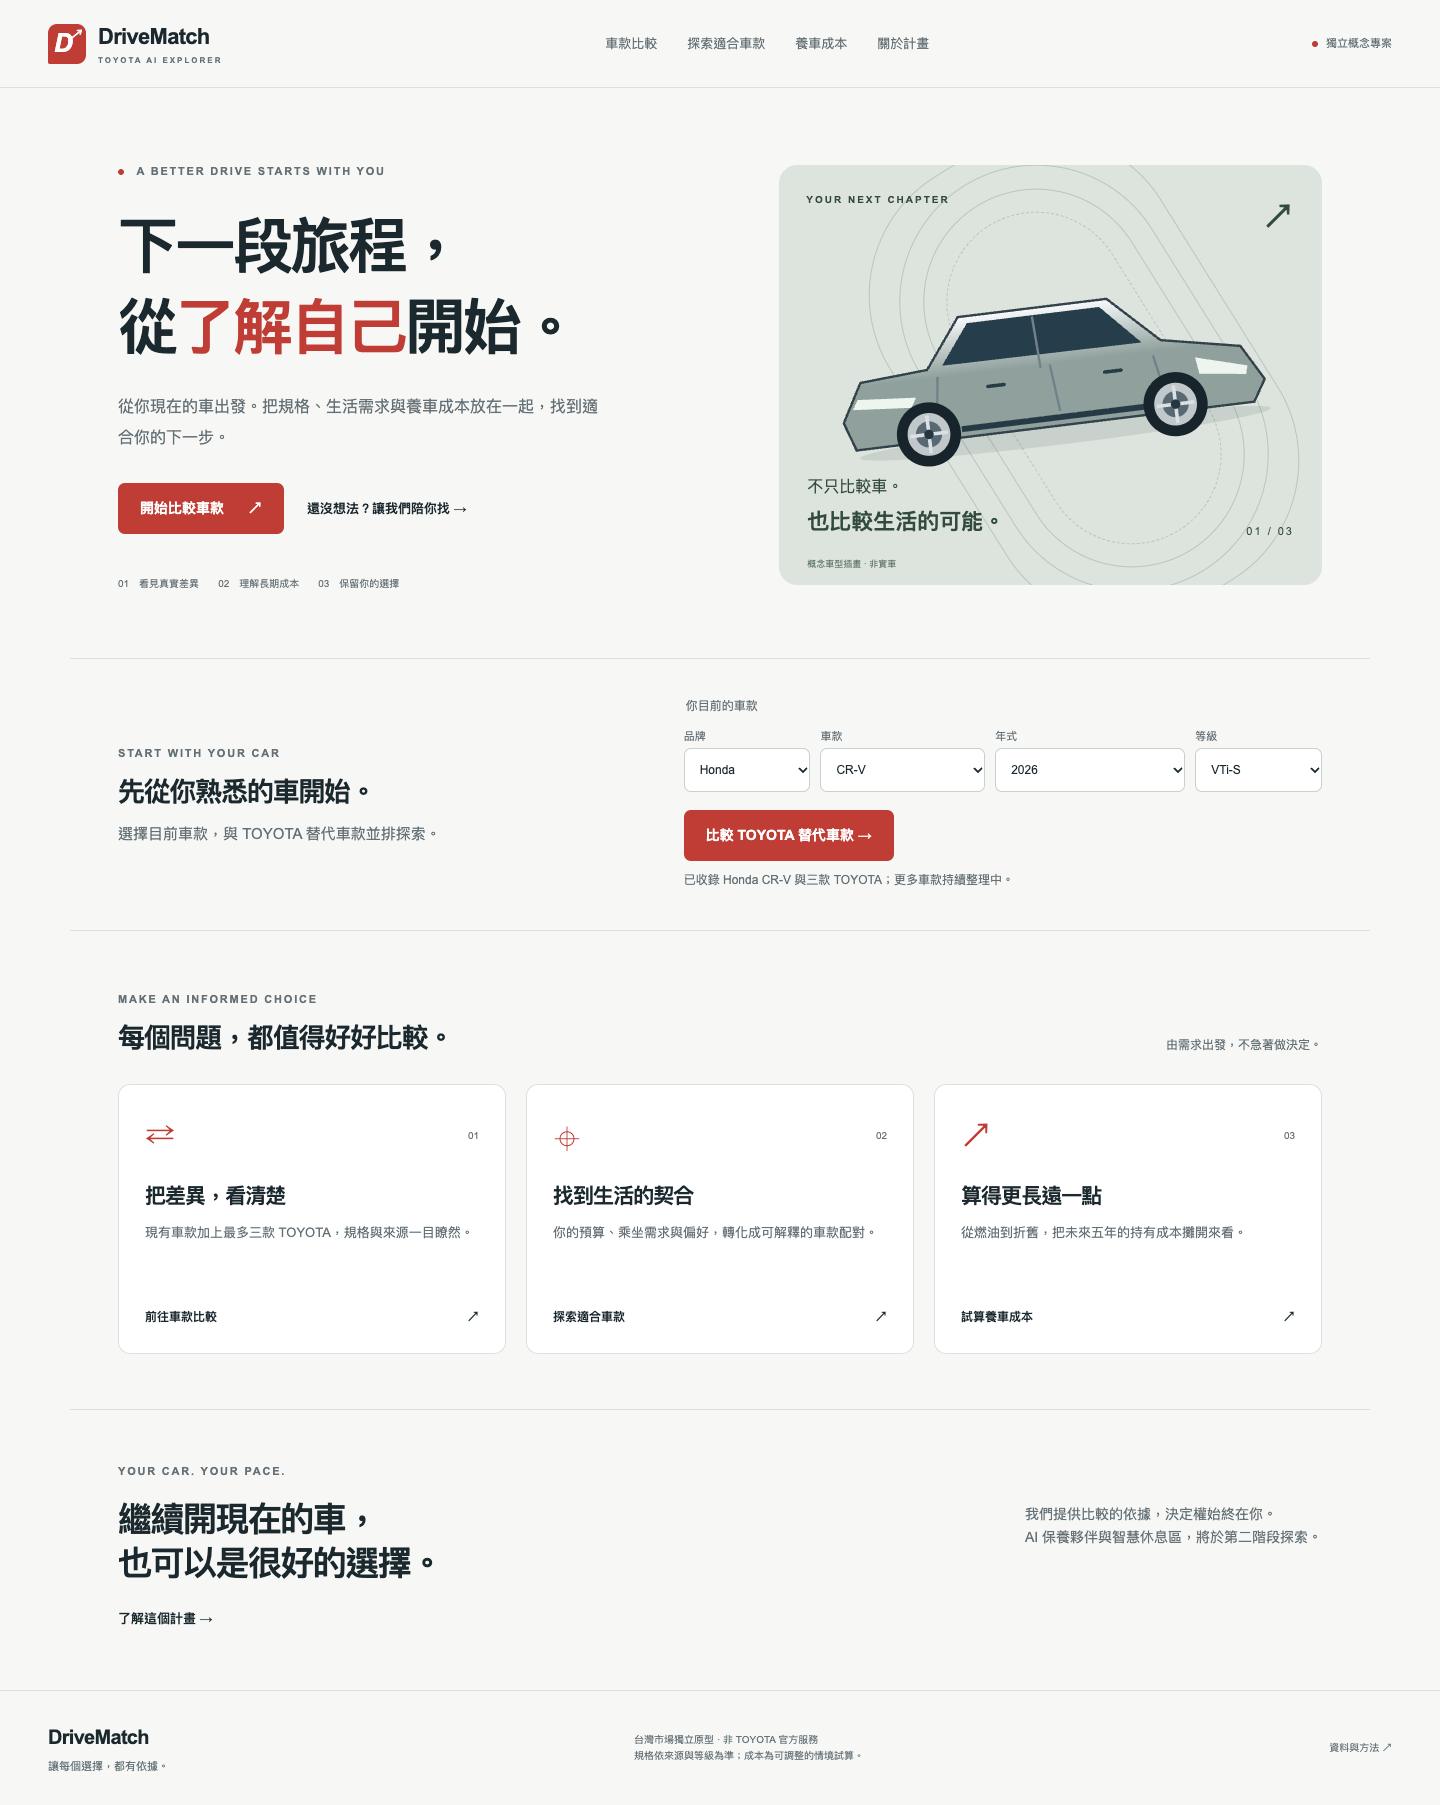
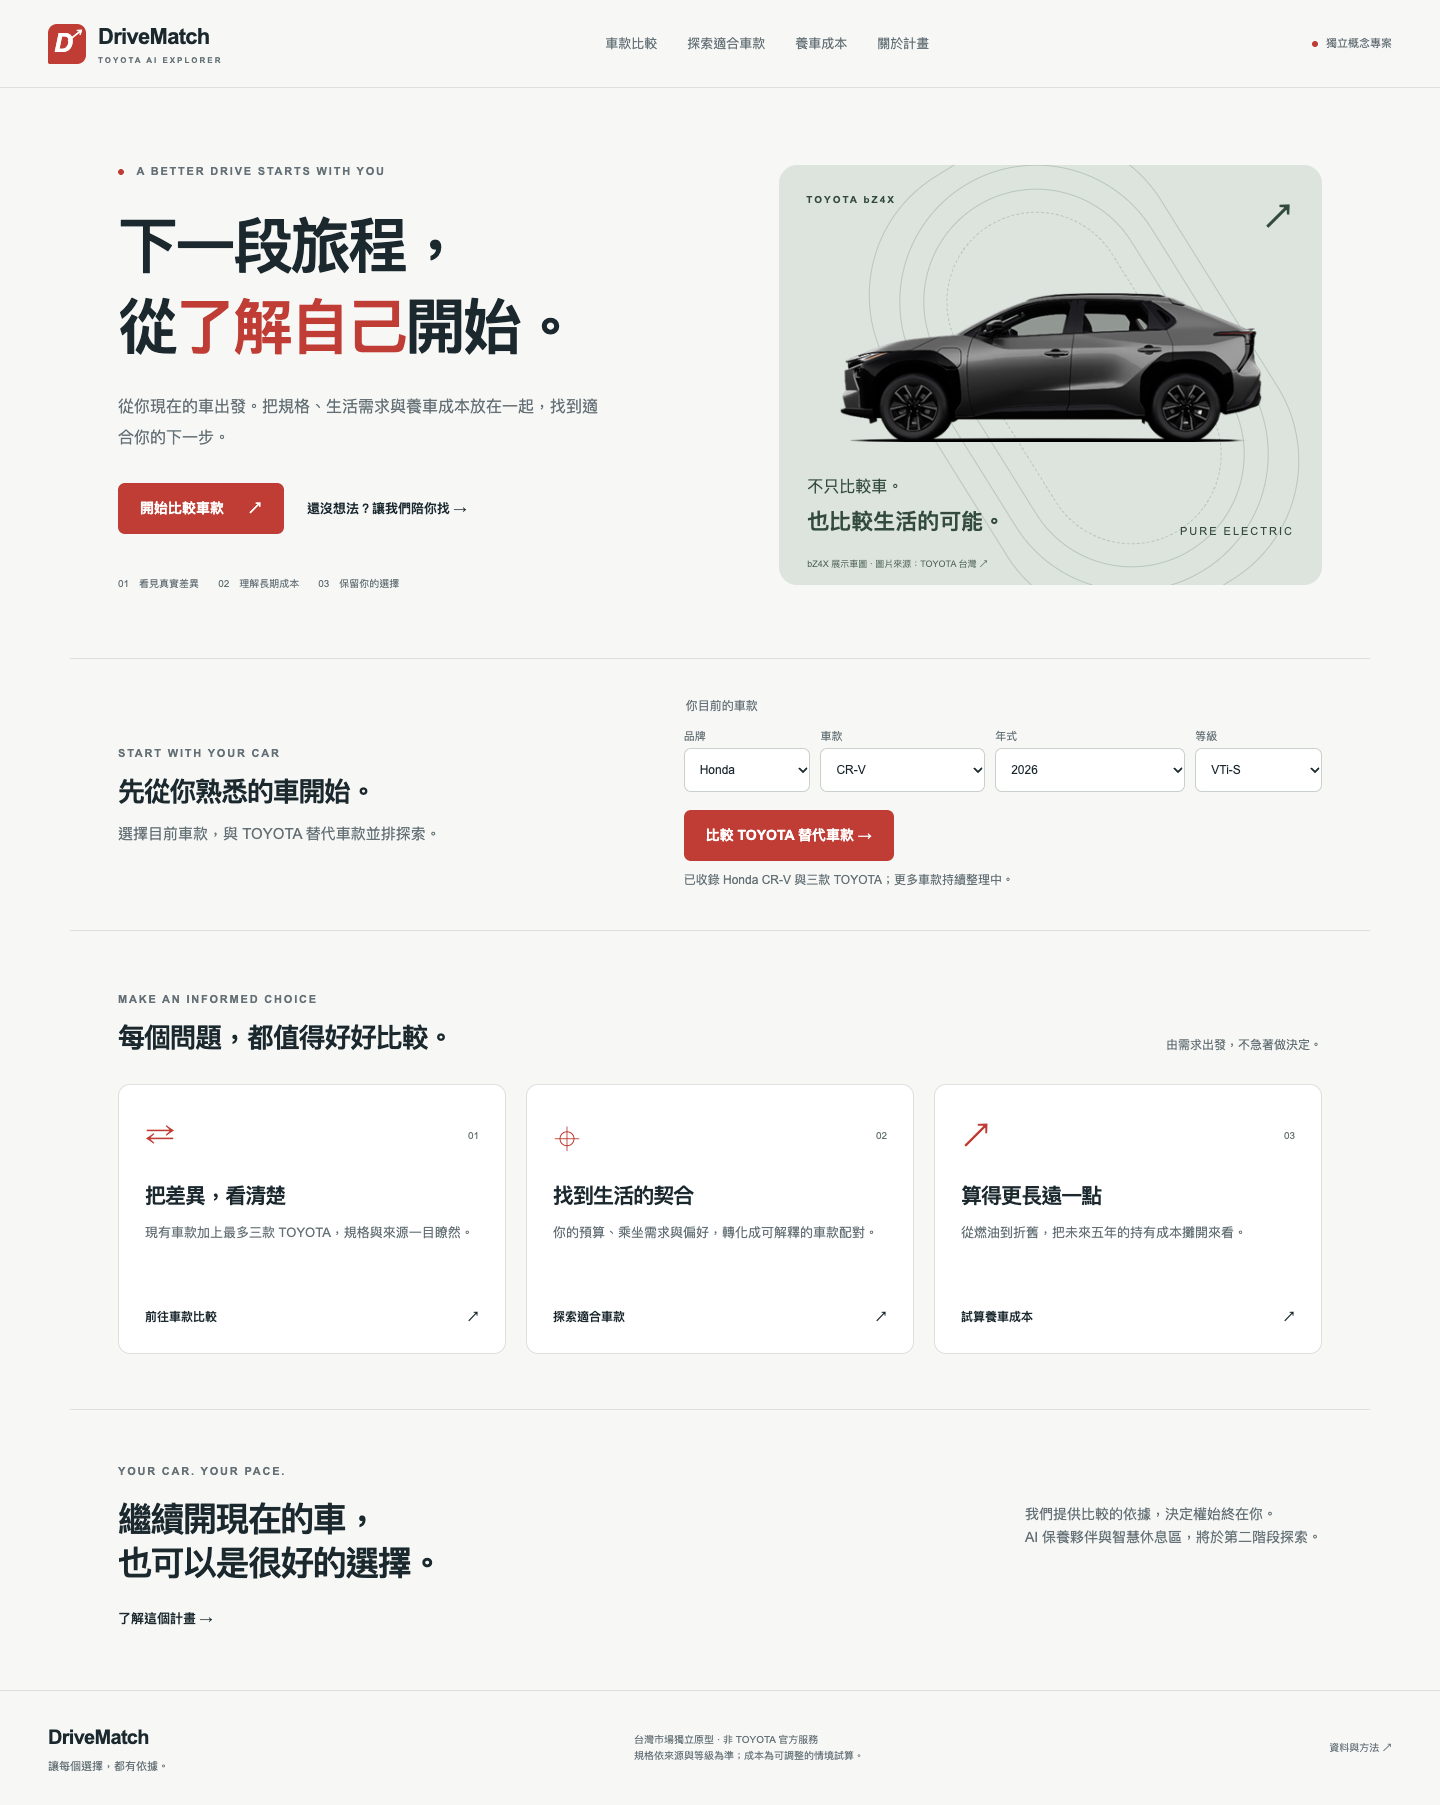
Feature bZ4X in homepage demo and README screenshot

Changed region(s): [[0.5625, 0.1551, 0.875, 0.2792], [0.5625, 0.3102, 0.5938, 0.3413]]

diff --git a/frontend/app/page.tsx b/frontend/app/page.tsx
@@ -1,9 +1,9 @@
 "use client";
 import Link from "next/link";
+import Image from "next/image";
 import { useRouter } from "next/navigation";
 import { useCatalog, CatalogStatus } from "@/components/Store";
 import Selector from "@/components/Selector";
-import VehicleArt from "@/components/VehicleArt";
 export default function Home() {
   const { vehicles, current, setCurrent, setSelected } = useCatalog();
   const router = useRouter();
@@ -37,7 +37,7 @@ export default function Home() {
         </div>
         <div className="hero-visual">
           <div className="visual-top">
-            <span>YOUR NEXT CHAPTER</span>
+            <span>TOYOTA bZ4X</span>
             <span>↗</span>
           </div>
           <div className="road">
@@ -46,7 +46,14 @@ export default function Home() {
             <div />
           </div>
           <div className="hero-car">
-            <VehicleArt color="#90a19d" />
+            <Image
+              src="/images/toyota-bz4x.png"
+              alt="TOYOTA bZ4X 銀色純電休旅車側面原廠展示圖"
+              width={540}
+              height={187}
+              loading="eager"
+              unoptimized
+            />
           </div>
           <div className="visual-caption">
             <span>
@@ -54,9 +61,16 @@ export default function Home() {
               <br />
               <strong>也比較生活的可能。</strong>
             </span>
-            <span className="visual-index">01 / 03</span>
+            <span className="visual-index">PURE ELECTRIC</span>
           </div>
-          <small className="art-note">概念車型插畫 · 非實車</small>
+          <a
+            className="art-note"
+            href="https://www.toyota.com.tw/showroom/bZ4X/"
+            target="_blank"
+            rel="noreferrer"
+          >
+            bZ4X 展示車圖 · 圖片來源：TOYOTA 台灣 ↗
+          </a>
         </div>
       </section>
       <section className="start-section wrap" id="start">

diff --git a/frontend/app/globals.css b/frontend/app/globals.css
@@ -325,9 +325,17 @@ small {
 .hero-car {
   position: absolute;
   width: 92%;
-  top: 90px;
+  top: 75px;
+  bottom: 115px;
   left: 4%;
-  transform: rotate(-7deg);
+  display: flex;
+  align-items: center;
+}
+.hero-car img {
+  display: block;
+  width: 100%;
+  height: auto;
+  object-fit: contain;
 }
 .vehicle-art {
   width: 100%;
@@ -1184,7 +1192,10 @@ footer a {
   }
   .hero-car {
     width: 100%;
-    top: 50px;
+    top: 60px;
+    bottom: 105px;
+    left: 0;
+    padding: 0 14px;
   }
   .hero-notes {
     margin-top: 25px;
@@ -1199,6 +1210,9 @@ footer a {
   }
   .hero-visual .visual-caption {
     bottom: 39px;
+  }
+  .hero-visual .visual-index {
+    display: none;
   }
   .visual-caption strong {
     font-size: 21px;

diff --git a/README.md b/README.md
@@ -10,9 +10,11 @@ and estimate five-year ownership costs. No AI key or customer data is required.
 Actual screenshots of the working Cycle 1 application. Click an image to view it
 at full resolution.
 
-**Homepage — choose your current vehicle and start exploring.**
+**Homepage — featuring TOYOTA bZ4X; choose your current vehicle and start exploring.**
 
-[![DriveMatch homepage with vehicle selection and links to comparison, matching and ownership costs](docs/screenshots/home-desktop.png)](docs/screenshots/home-desktop.png)
+[![DriveMatch homepage featuring a TOYOTA bZ4X vehicle image, vehicle selection and exploration tools](docs/screenshots/home-desktop.png)](docs/screenshots/home-desktop.png)
+
+bZ4X display image: [TOYOTA Taiwan](https://www.toyota.com.tw/showroom/bZ4X/).
 
 <details>
 <summary>Vehicle comparison — Honda CR-V, TOYOTA RAV4 and COROLLA CROSS</summary>

diff --git a/frontend/public/images/README.md b/frontend/public/images/README.md
@@ -1,0 +1,16 @@
+# Image provenance
+
+## toyota-bz4x.png
+
+- Vehicle: TOYOTA bZ4X; silver side-profile display image.
+- Source page: https://www.toyota.com.tw/showroom/bZ4X/
+- Original asset: https://hotaicdn.azureedge.net/toyotaweb/CAR_20251025181236EE43C5J7.png
+- Retrieved: 2026-10-13.
+- Original dimensions: 540 × 187 pixels; PNG with transparency.
+- Usage: homepage demonstration visual, requested by the user. The file is
+  unchanged and served locally so the demo does not depend on a third-party host.
+- Attribution is visible on the homepage and in README.md. The image and vehicle
+  marks belong to their respective rights holders; no project ownership or
+  open-source image license is asserted. This is an independent prototype.
+- This image is not evidence of model year, trim specifications or inclusion in
+  the comparison catalog.

diff --git a/docs/implementation-report.md b/docs/implementation-report.md
@@ -62,3 +62,11 @@ Docker/PostgreSQL integration. Only then add the Cycle 2 service companion,
 synthetic appointments, Smart Lounge, grounded RAG and optional LINE integration.
 Agent context, bounded loops, traceability, evaluation and guardrail requirements
 are specified in architecture.md; no LLM service is represented as implemented.
+
+## bZ4X demonstration imagery update
+
+The homepage now displays the source-attributed TOYOTA Taiwan bZ4X image at the
+user's request. The committed README homepage capture was regenerated from the
+production build. Frontend type checking, production build and the two existing
+desktop/mobile homepage browser checks passed. Both viewport captures were
+visually inspected. This imagery change does not add EV catalog or TCO support.

diff --git a/docs/data-ingestion.md b/docs/data-ingestion.md
@@ -2,8 +2,10 @@
 
 The bundled file is a manually transcribed, limited factual snapshot, not a
 scraper output. Sources were read on 2026-10-13. Reference navigation patterns
-were reviewed on Apple's comparison page; no protected visual assets were copied.
-Vehicle illustrations are original generic SVG schematics, labeled as such.
+were reviewed on Apple's comparison page; no Apple visual assets were copied.
+Comparison illustrations are original generic SVG schematics, labeled as such.
+At the user's request, the homepage features the manufacturer-provided bZ4X
+display image. See `frontend/public/images/README.md` for its source attribution.
 
 Official sources:
 - https://www.honda-taiwan.com.tw/2026CR-V/index.html — VTi-S and S prices,

diff --git a/docs/requirements.md b/docs/requirements.md
@@ -12,6 +12,8 @@ public hosting is a later decision.
 - P0: working homepage/navigation; manufacturer/model/year/trim selection;
   current vehicle plus zero to three distinct TOYOTA trims; change/remove columns;
   category filtering and difference highlighting; source/status/date visibility.
+- Homepage demonstration imagery features TOYOTA bZ4X, with manufacturer image
+  attribution. This visual request does not add an EV catalog or EV TCO model.
 - P0: preference wizard with budget, usage, seats, priority, mileage and current
   vehicle; deterministic, explainable top-three models; strict eligibility and
   explicitly ineligible alternatives when no match exists.
